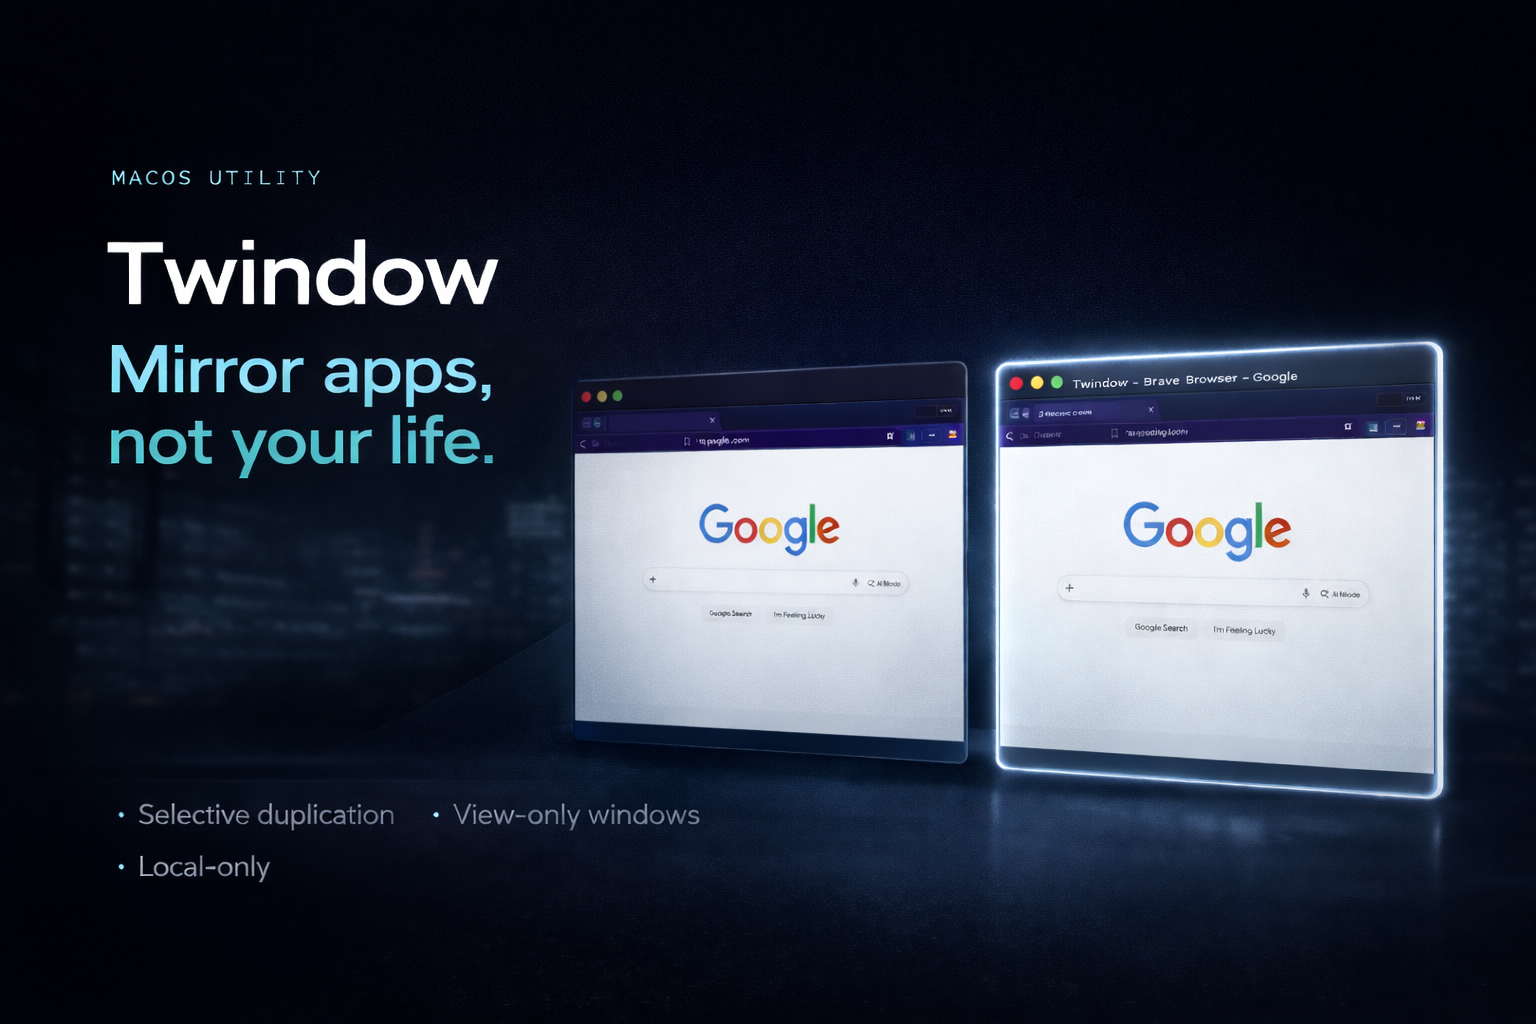
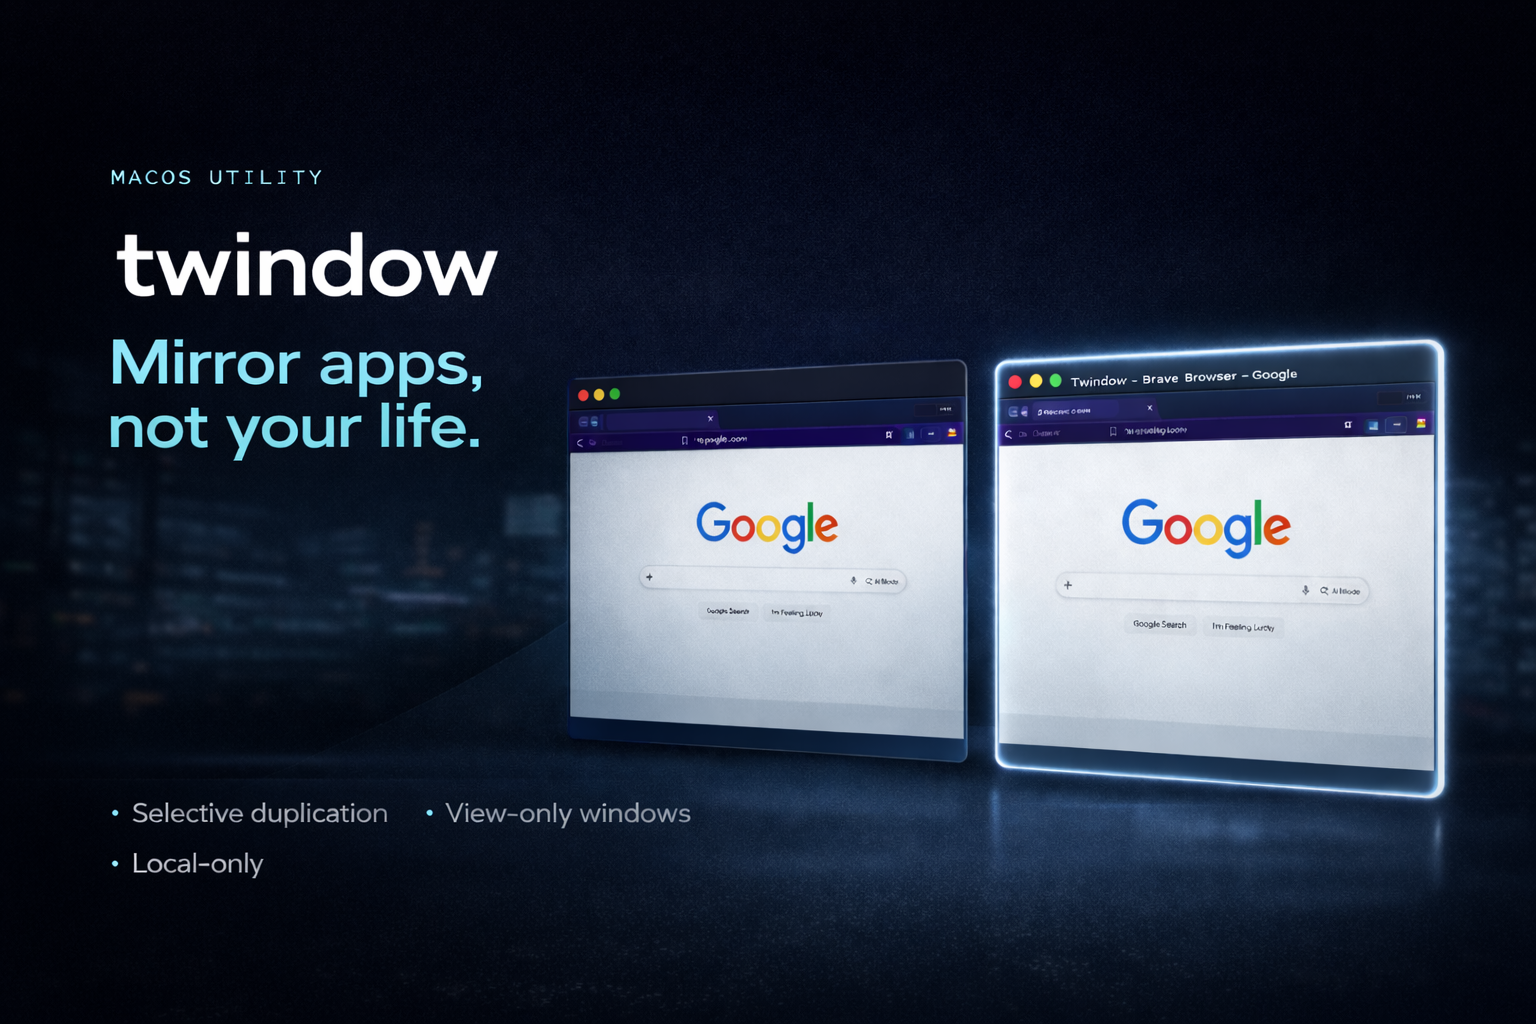
Update twindow branding and homepage polish

diff --git a/components/top-nav.tsx b/components/top-nav.tsx
@@ -38,35 +38,39 @@ export function TopNav() {
 
   return (
     <header className="sticky top-0 z-50 border-b border-border/70 bg-surface/75 backdrop-blur-xl">
-      <div className="container-shell flex h-14 items-center justify-between gap-3 md:h-16 md:gap-4">
-        <a href="#hero" className="focus-ring inline-flex items-center gap-2 rounded-lg px-2 py-1">
-          <span className="font-mono text-xs uppercase tracking-[0.18em] text-accent">Twindow</span>
-          <span className="hidden font-mono text-xs uppercase tracking-[0.14em] text-muted sm:inline">
-            Mirror apps, not your life.
-          </span>
-        </a>
-
-        <nav aria-label="Section navigation" className="hidden items-center gap-1 lg:flex">
-          {sections.map((section) => (
-            <a
-              key={section.id}
-              href={`#${section.id}`}
-              className={cn(
-                "focus-ring rounded-lg px-3 py-2 font-mono text-[11px] uppercase tracking-[0.14em] transition",
-                active === section.id ? "bg-card text-foreground" : "text-muted hover:text-foreground"
-              )}
-              aria-current={active === section.id ? "page" : undefined}
-            >
-              {section.label}
+      <div className="mx-auto h-14 w-full max-w-[96rem] px-4 md:h-16 md:px-8">
+        <div className="flex h-full items-center justify-between gap-3 md:gap-4 lg:grid lg:grid-cols-[1.1fr,0.9fr] lg:gap-16">
+          <div className="flex min-w-0 items-center justify-between gap-6 lg:pr-4">
+            <a href="#hero" className="focus-ring inline-flex min-w-0 items-center gap-2 rounded-lg px-2 py-1">
+              <span className="font-mono text-xs uppercase tracking-[0.18em] text-accent">twindow</span>
+              <span className="hidden truncate font-mono text-xs uppercase tracking-[0.14em] text-muted sm:inline">
+                Mirror apps, not your life.
+              </span>
             </a>
-          ))}
-        </nav>
 
-        <div className="flex items-center gap-2">
-          <ThemeToggle />
-          <Button href="#pricing" variant="secondary" className="hidden sm:inline-flex">
-            Download
-          </Button>
+            <nav aria-label="Section navigation" className="hidden items-center gap-1 lg:flex">
+              {sections.map((section) => (
+                <a
+                  key={section.id}
+                  href={`#${section.id}`}
+                  className={cn(
+                    "focus-ring rounded-lg px-3 py-2 font-mono text-[11px] uppercase tracking-[0.14em] transition",
+                    active === section.id ? "bg-card text-foreground" : "text-muted hover:text-foreground"
+                  )}
+                  aria-current={active === section.id ? "page" : undefined}
+                >
+                  {section.label}
+                </a>
+              ))}
+            </nav>
+          </div>
+
+          <div className="flex items-center justify-end gap-2">
+            <ThemeToggle />
+            <Button href="#pricing" variant="secondary" className="hidden sm:inline-flex">
+              Download
+            </Button>
+          </div>
         </div>
       </div>
     </header>

diff --git a/components/sections/hero-section.tsx b/components/sections/hero-section.tsx
@@ -13,13 +13,13 @@ export function HeroSection() {
           <Reveal className="flex h-full flex-col justify-between gap-9 md:gap-10">
             <div className="max-w-[42rem] space-y-6 md:space-y-7">
               <h1 className="w-full text-[3.7rem] font-extrabold leading-[0.92] tracking-tight sm:text-[4.7rem] md:text-[6.9rem]">
-                <span className="block text-[1.18em] text-foreground md:text-[1.24em]">Twindow</span>
+                <span className="block text-[1.18em] text-foreground md:text-[1.24em]">twindow</span>
                 <span className="block text-[0.95em] font-bold leading-[1.02] text-accent">
                   mirror apps, not your life.
                 </span>
               </h1>
               <p className="text-base text-muted sm:text-lg md:text-xl">
-                Twindows are read only duplicates of application windows. Move Twindows to 
+                twindows are read only duplicates of application windows. Move twindows to 
                 a 2nd display to avoid exposing your desktop, keeping your interactive applications in front of you, and your personal workspace private.
               </p>
             </div>
@@ -53,7 +53,7 @@ export function HeroSection() {
               <div className="relative overflow-hidden rounded-2xl bg-surface/70">
                 <Image
                   src={withBasePath("/twindowBox.png")}
-                  alt="Twindow app box art"
+                  alt="twindow app box art"
                   width={1200}
                   height={900}
                   className="h-auto w-full object-cover"
@@ -62,16 +62,16 @@ export function HeroSection() {
               </div>
               <div>
                 <p className="font-mono text-xs uppercase tracking-[0.16em] text-accent">Now shipping</p>
-                <p className="mt-2 text-sm text-muted">Download today and run Twindow locally on macOS with no account setup.</p>
+                <p className="mt-2 text-sm text-muted">Download today and run twindow locally on macOS with no account setup.</p>
               </div>
               <ul className="space-y-2 text-sm text-muted">
                 <li>• Selective app/window duplication</li>
-                <li>• View-only passive Twindows</li>
+                <li>• View-only passive twindows</li>
                 <li>• Works with extended desktop</li>
               </ul>
               <div className="pt-2">
                 <Button href="#pricing" className="w-full">
-                  Get Twindow
+                  Get twindow
                 </Button>
               </div>
             </div>

diff --git a/components/sections/pricing-section.tsx b/components/sections/pricing-section.tsx
@@ -4,15 +4,15 @@ import { SectionHeading } from "@/components/ui/section-heading";
 
 const trial = [
   "Full premium features for 14 days",
-  "Multiple Twindows",
+  "Multiple twindows",
   "Selective window duplication",
   "No account required",
   "All data remains local on your Mac"
 ];
 const standard = [
   "One-time purchase after trial",
-  "Multiple Twindows",
-  "Passive view-only Twindows",
+  "Multiple twindows",
+  "Passive view-only twindows",
   "No account required",
   "All data remains local on your Mac"
 ];
@@ -30,7 +30,7 @@ export function PricingSection() {
         <Reveal className="card-surface p-5 sm:p-7">
           <p className="font-mono text-xs uppercase tracking-[0.16em] text-accent">Premium Trial</p>
           <p className="mt-3 text-3xl font-bold sm:mt-4 sm:text-4xl">14 Day Free Trial</p>
-          <p className="mt-2 text-sm text-muted">Use the full Twindow workflow free for two weeks before deciding.</p>
+          <p className="mt-2 text-sm text-muted">Use the full twindow workflow free for two weeks before deciding.</p>
           <ul className="mt-6 space-y-2 text-sm text-muted">
             {trial.map((item) => (
               <li key={item}>• {item}</li>
@@ -42,7 +42,7 @@ export function PricingSection() {
         </Reveal>
 
         <Reveal className="card-surface border-accent/45 p-5 sm:p-7" delay={0.08}>
-          <p className="font-mono text-xs uppercase tracking-[0.16em] text-accent">Keep Twindow</p>
+          <p className="font-mono text-xs uppercase tracking-[0.16em] text-accent">Keep twindow</p>
           <div className="mt-3 flex flex-wrap items-center gap-3 sm:mt-4">
             <p className="text-xl font-semibold text-muted line-through sm:text-2xl">$29</p>
             <p className="text-3xl font-bold sm:text-4xl">$19.99</p>
@@ -50,14 +50,14 @@ export function PricingSection() {
               Earlybird
             </span>
           </div>
-          <p className="mt-2 text-sm text-muted">One-time license for the full Twindow workflow after your trial ends.</p>
+          <p className="mt-2 text-sm text-muted">One-time license for the full twindow workflow after your trial ends.</p>
           <ul className="mt-6 space-y-2 text-sm text-muted">
             {standard.map((item) => (
               <li key={item}>• {item}</li>
             ))}
           </ul>
           <Button href="#" className="mt-8 w-full">
-            Download Twindow
+            Download twindow
           </Button>
         </Reveal>
       </div>

diff --git a/components/sections/testimonials-section.tsx b/components/sections/testimonials-section.tsx
@@ -4,19 +4,19 @@ import { SectionHeading } from "@/components/ui/section-heading";
 const testimonials = [
   {
     quote:
-      "I teach with slides on one screen and my notes on the other. Twindow lets students see only what I intend to present without exposing the rest of my desktop.",
+      "I teach with slides on one screen and my notes on the other. twindow lets students see only what I intend to present without exposing the rest of my desktop.",
     name: "Elena M.",
     role: "College Lecturer"
   },
   {
     quote:
-      "During client reviews I need one clean view for the room and a separate working setup for myself. Twindow made that split feel deliberate instead of improvised.",
+      "During client reviews I need one clean view for the room and a separate working setup for myself. twindow made that split feel deliberate instead of improvised.",
     name: "Marcus T.",
     role: "Project Manager"
   },
   {
     quote:
-      "I often present dashboards while keeping private models and messages off-screen. Twindow gives me a much cleaner handoff to the external monitor.",
+      "I often present dashboards while keeping private models and messages off-screen. twindow gives me a much cleaner handoff to the external monitor.",
     name: "Priya S.",
     role: "Financial Analyst"
   }

diff --git a/app/layout.tsx b/app/layout.tsx
@@ -15,11 +15,11 @@ const jetbrainsMono = JetBrains_Mono({
 });
 
 export const metadata: Metadata = {
-  title: "Twindow | Mirror apps, not your life.",
+  title: "twindow | Mirror apps, not your life.",
   description:
-    "Create a passive, view-only Twindow of any app and move it to your second display without exposing your desktop.",
+    "Create a passive, view-only twindow of any app and move it to your second display without exposing your desktop.",
   openGraph: {
-    title: "Twindow | Mirror apps, not your life.",
+    title: "twindow | Mirror apps, not your life.",
     description:
       "Selective app window duplication for macOS. Private demos and presentations with full control.",
     type: "website",
@@ -29,13 +29,13 @@ export const metadata: Metadata = {
         url: "/og.png",
         width: 1200,
         height: 630,
-        alt: "Twindow marketing preview"
+        alt: "twindow marketing preview"
       }
     ]
   },
   twitter: {
     card: "summary_large_image",
-    title: "Twindow | Mirror apps, not your life.",
+    title: "twindow | Mirror apps, not your life.",
     description:
       "Duplicate only the windows you choose to your second monitor. No full-screen mirroring.",
     images: ["/og.png"]

diff --git a/components/sections/gallery-section.tsx b/components/sections/gallery-section.tsx
@@ -6,11 +6,11 @@ const galleryItems = [
   {
     title: "A) App picker",
     src: "/gallery-1.png",
-    shouldShow: "A clean list of open app windows with one selected to become a Twindow.",
+    shouldShow: "A clean list of open app windows with one selected to become a twindow.",
     why: "Shows selective targeting instead of full-screen mirroring."
   },
   {
-    title: "B) Passive Twindow",
+    title: "B) Passive twindow",
     src: "/gallery-2.png",
     shouldShow: "A separate duplicate window with a subtle border and no interaction cursor cues.",
     why: "Communicates view-only behavior for safer sharing."
@@ -18,7 +18,7 @@ const galleryItems = [
   {
     title: "C) Drag to monitor",
     src: "/gallery-3.png",
-    shouldShow: "User dragging a Twindow onto a second display in extended desktop mode.",
+    shouldShow: "User dragging a twindow onto a second display in extended desktop mode.",
     why: "Demonstrates the core two-screen workflow clearly."
   },
   {

diff --git a/components/sections/problem-solution-section.tsx b/components/sections/problem-solution-section.tsx
@@ -13,7 +13,7 @@ export function ProblemSolutionSection() {
       <SectionHeading
         kicker="Problem / Solution"
         title="When you mirror a whole display, you lose control."
-        description="Twindow duplicates only what you choose, so your second monitor stays useful while your private desktop stays private."
+        description="twindow duplicates only what you choose, so your second monitor stays useful while your private desktop stays private."
       />
 
       <div className="mt-10 grid gap-4 md:grid-cols-3">
@@ -27,7 +27,7 @@ export function ProblemSolutionSection() {
 
       <Reveal className="card-surface mt-6 p-7 md:p-9" delay={0.1}>
         <p className="kicker">Solution</p>
-        <p className="mt-4 text-2xl font-semibold md:text-3xl">Twindow duplicates only what you choose.</p>
+        <p className="mt-4 text-2xl font-semibold md:text-3xl">twindow duplicates only what you choose.</p>
       </Reveal>
     </section>
   );

diff --git a/components/sections/footer-section.tsx b/components/sections/footer-section.tsx
@@ -9,7 +9,7 @@ export function FooterSection() {
             <p className="font-mono text-xs uppercase tracking-[0.16em] text-accent">The Choice is Yours</p>
             <h2 className="mt-2 text-2xl font-bold">Don't share your desktop with ANYONE. Share twindows instead  🙂</h2>
           </div>
-          <Button href="#pricing">Download Twindow</Button>
+          <Button href="#pricing">Download twindow</Button>
         </div>
 
         <div className="flex flex-col justify-between gap-4 text-sm text-muted md:flex-row md:items-center">
@@ -19,7 +19,7 @@ export function FooterSection() {
           </div>
           <div className="text-left md:text-right">
             <p>Privacy note: Local-only duplication. No account required.</p>
-            <p>© {new Date().getFullYear()} Twindow. All rights reserved.</p>
+            <p>© {new Date().getFullYear()} twindow. All rights reserved.</p>
           </div>
         </div>
       </div>

diff --git a/components/sections/faq-section.tsx b/components/sections/faq-section.tsx
@@ -4,19 +4,19 @@ import { SectionHeading } from "@/components/ui/section-heading";
 const faqs = [
   {
     q: "Is it screen mirroring?",
-    a: "Not full-screen mirroring. Twindow is selective duplication of specific app windows."
+    a: "Not full-screen mirroring. twindow is selective duplication of specific app windows."
   },
   {
     q: "Does it record my screen?",
-    a: "No. Twindow does not record your screen."
+    a: "No. twindow does not record your screen."
   },
   {
     q: "Does it capture keystrokes?",
-    a: "No. Twindows are read-only and do not pass input through."
+    a: "No. twindows are read-only and do not pass input through."
   },
   {
     q: "Will it work with Zoom?",
-    a: "Twindow helps you prepare what to share on a second monitor, but it is not a Zoom plugin."
+    a: "twindow helps you prepare what to share on a second monitor, but it is not a Zoom plugin."
   }
 ];
 

diff --git a/components/ui/hero-media.tsx b/components/ui/hero-media.tsx
@@ -10,7 +10,7 @@ export function HeroMedia() {
         <SectionHeading
           kicker="Demo"
           title="Never share your desktop again"
-          description="Create a Twindow in seconds, and drag it to your second display. Breathe easy 🧘♀ "
+          description="Create a twindow in seconds, and drag it to your second display. Breathe easy 🧘♀ "
           className="px-1 md:px-2"
         />
 
@@ -23,7 +23,7 @@ export function HeroMedia() {
             <LazyVideo
               className="block h-auto w-full bg-transparent"
               poster={withBasePath("/twindowAd.png")}
-              ariaLabel="Twindow product demo video"
+              ariaLabel="twindow product demo video"
               sources={[
                 { src: withBasePath("/TwindowDemo.mp4?v=20260301-2"), type: "video/mp4" }
               ]}

diff --git a/components/sections/how-it-works-section.tsx b/components/sections/how-it-works-section.tsx
@@ -7,12 +7,12 @@ const steps = [
     description: "Choose the exact app window you want to duplicate from a clean picker."
   },
   {
-    title: "Create a Twindow",
+    title: "Create a twindow",
     description: "Generate a passive, view-only duplicate with one click."
   },
   {
     title: "Drag to second display",
-    description: "Move the Twindow to your extended desktop and keep your main desktop private."
+    description: "Move the twindow to your extended desktop and keep your main desktop private."
   }
 ];
 

diff --git a/components/sections/feature-grid-section.tsx b/components/sections/feature-grid-section.tsx
@@ -8,7 +8,7 @@ const features = [
   },
   {
     label: "Passive Duplicate Windows",
-    copy: "Twindows are read-only with no input passthrough."
+    copy: "twindows are read-only with no input passthrough."
   },
   {
     label: "Extended desktop native",
@@ -16,7 +16,7 @@ const features = [
   },
   {
     label: "Multi-window support",
-    copy: "Create multiple Twindows to arrange your dashboard layout"
+    copy: "Create multiple twindows to arrange your dashboard layout"
   }
 ];
 
